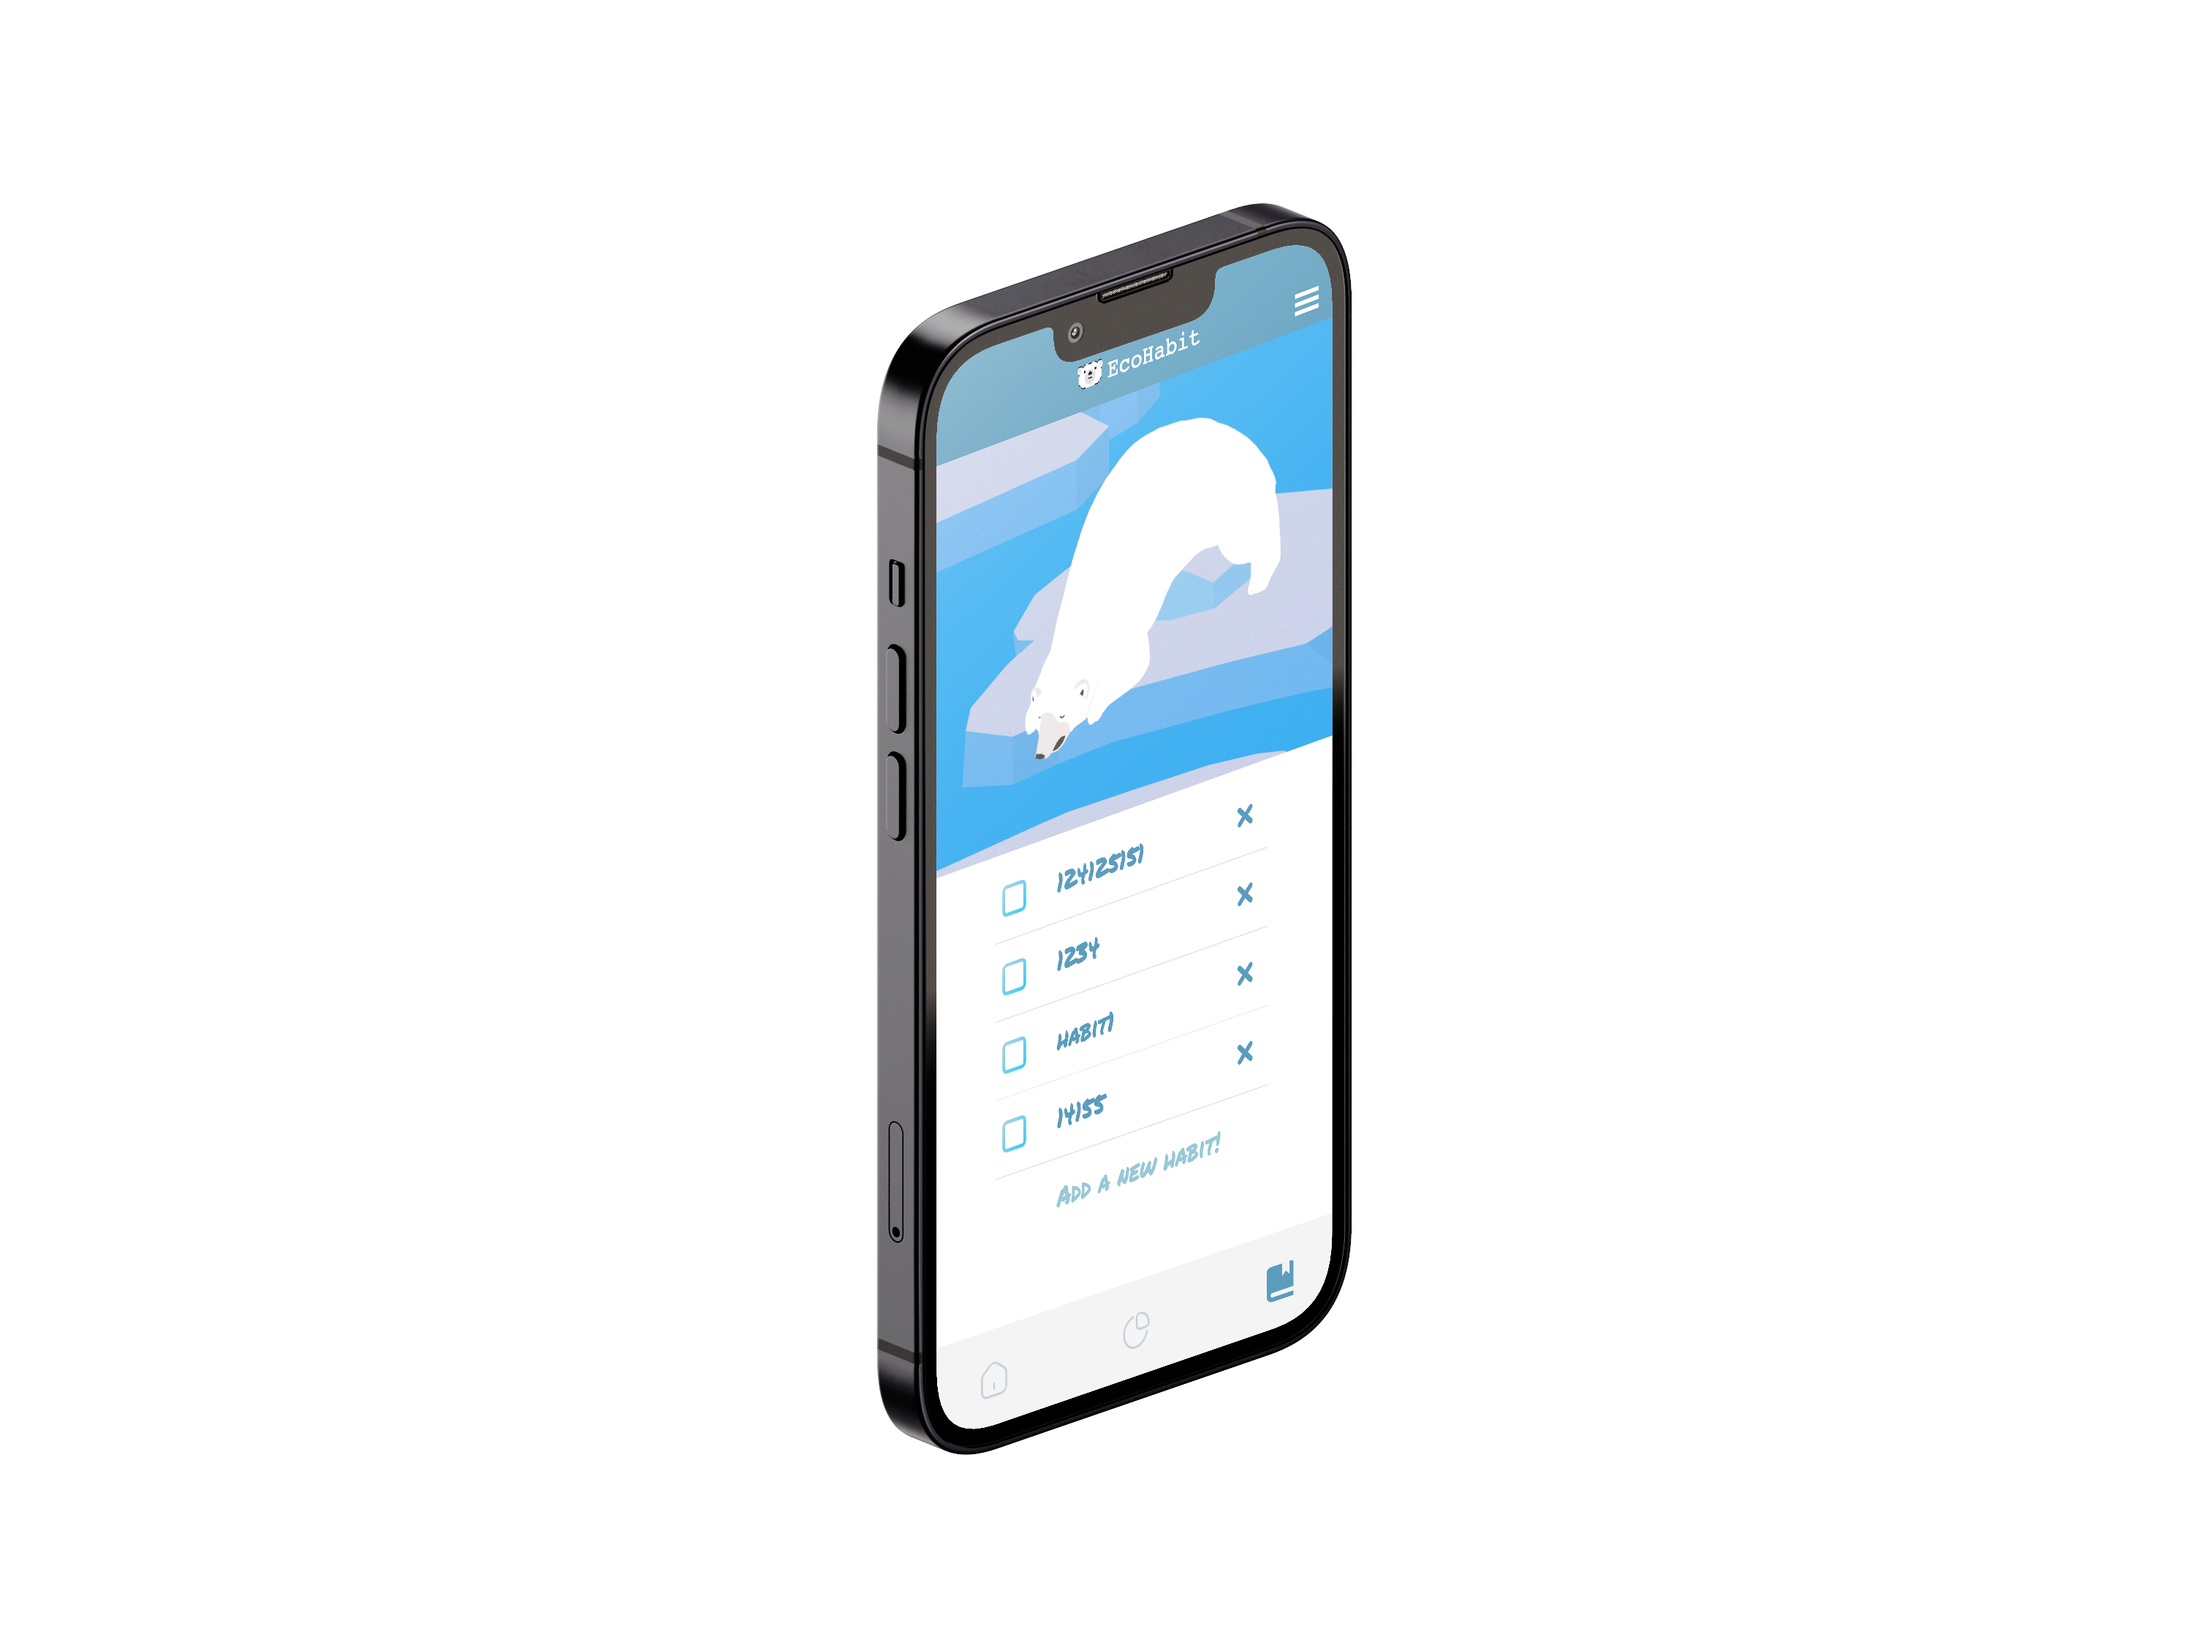
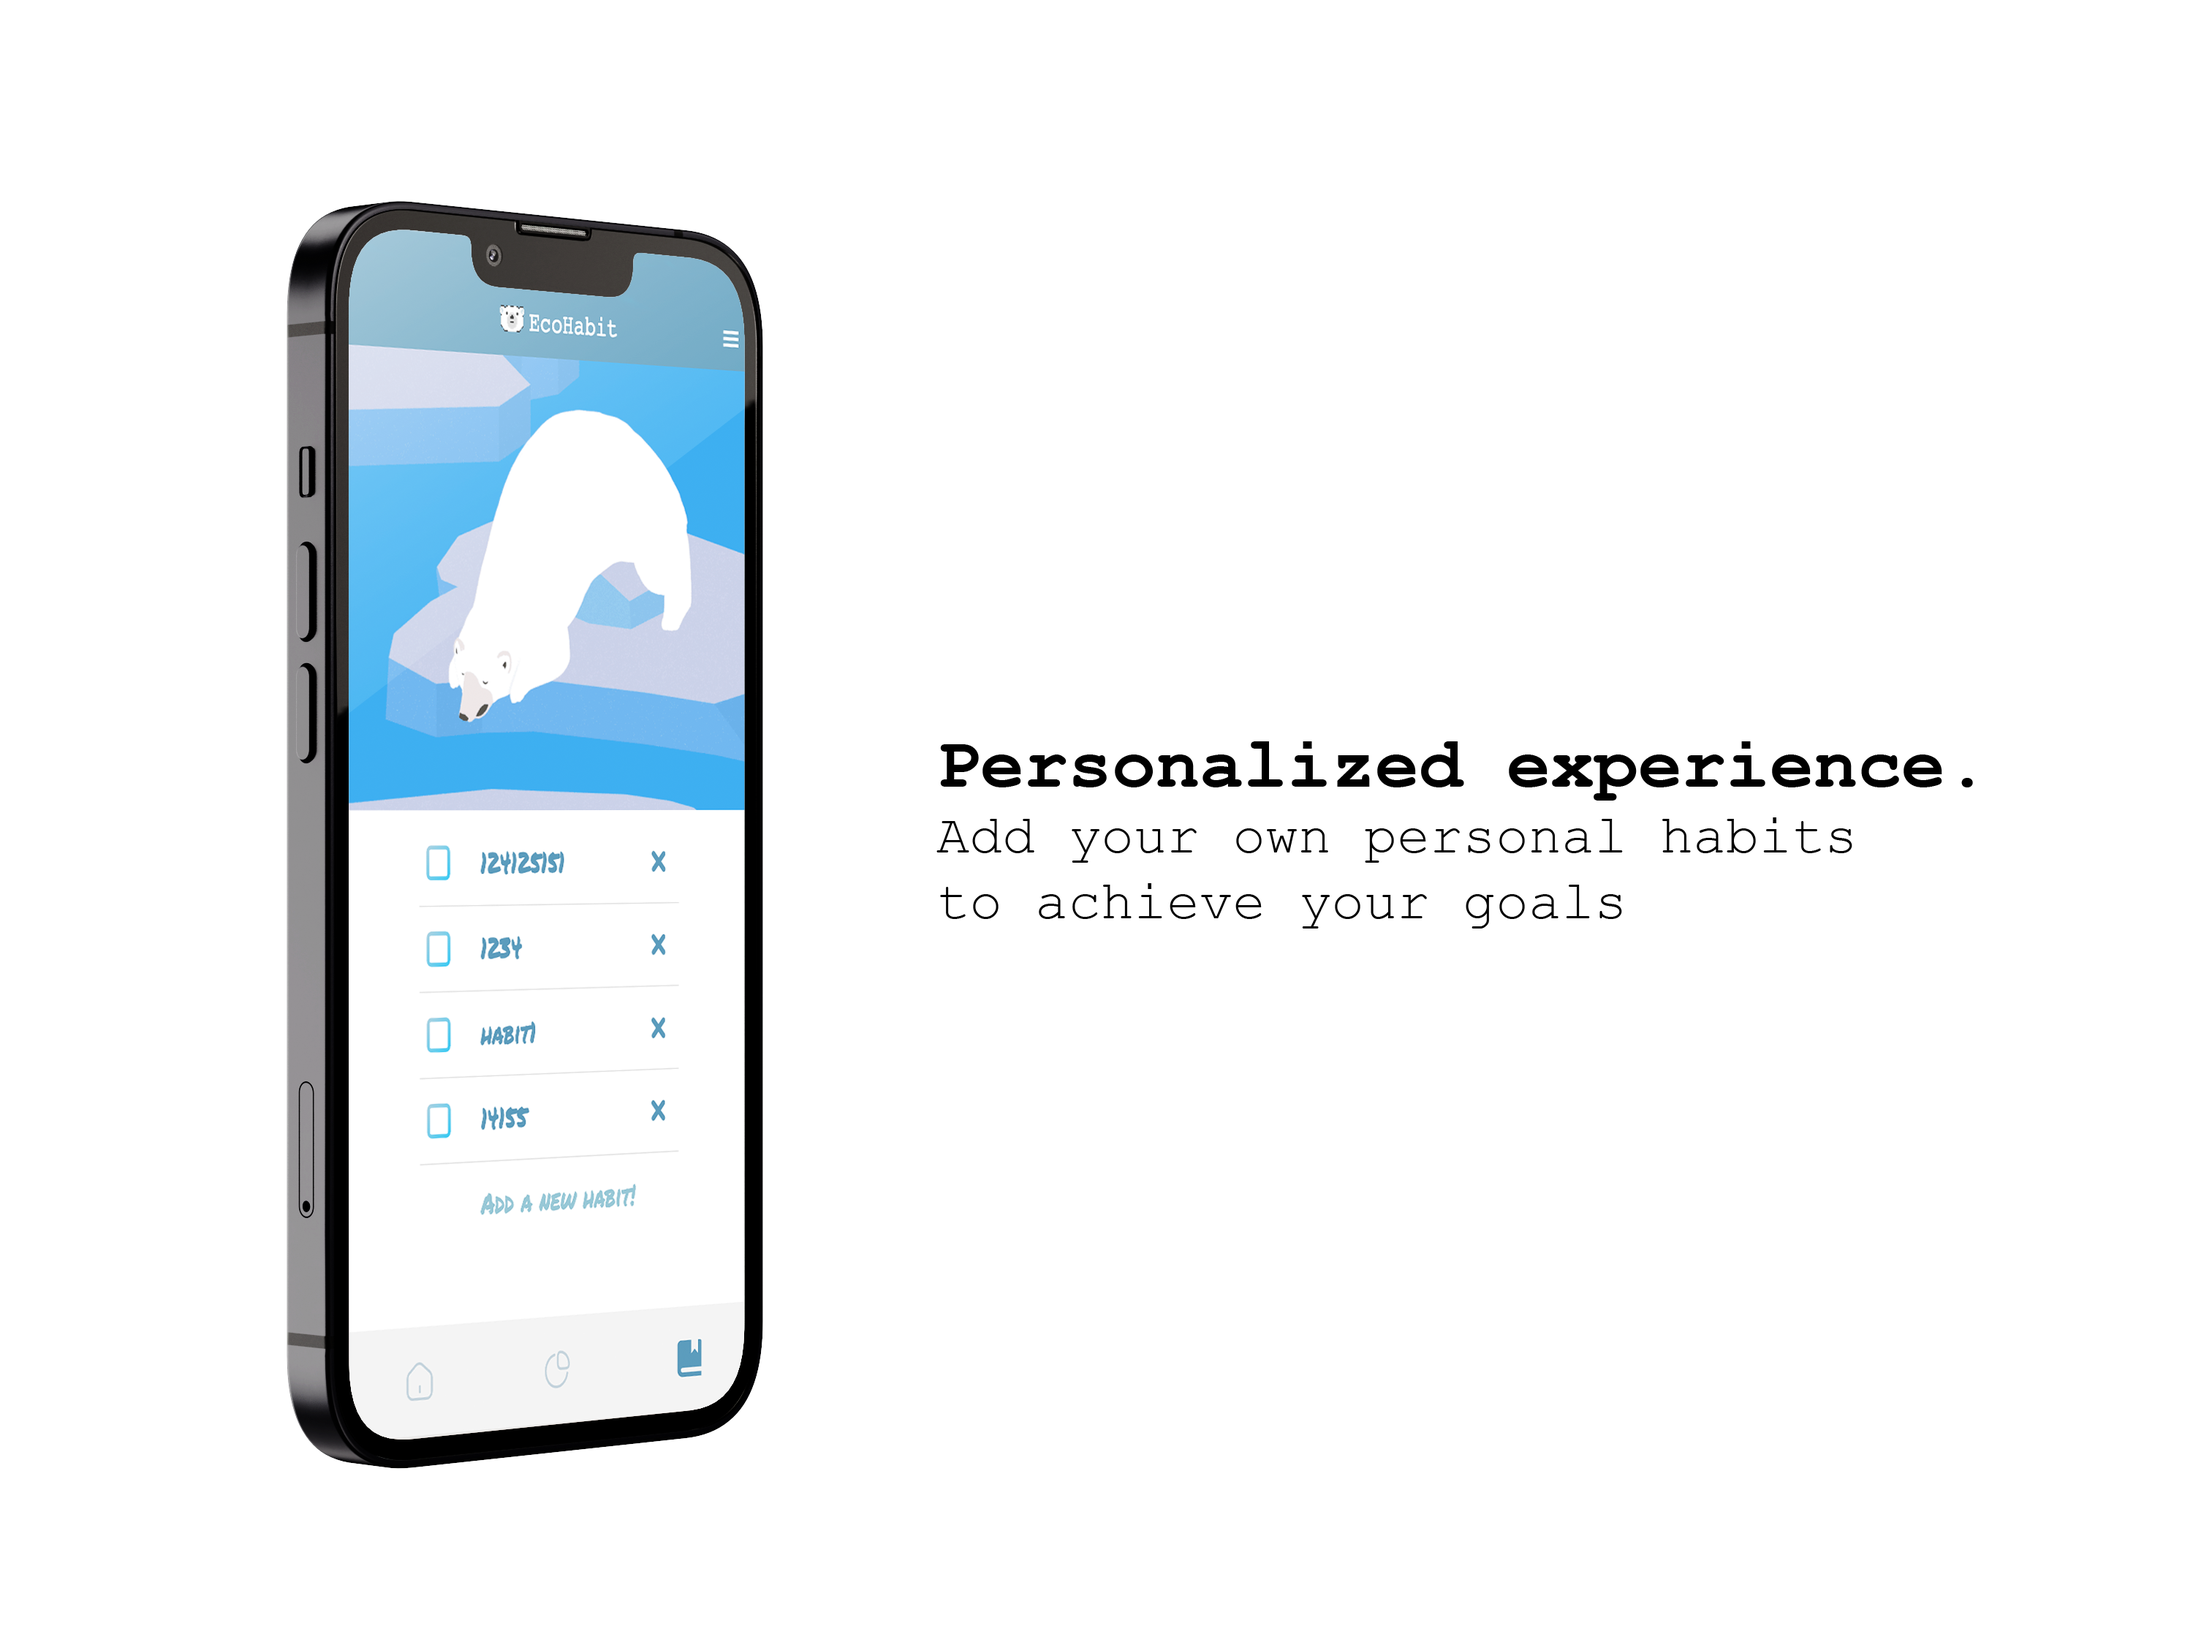
Fixed carousel images, added captions, added media quety for widths less than 800px

diff --git a/styles/style.css b/styles/style.css
@@ -222,10 +222,6 @@ input[type=checkbox]:checked~.sidebarIconToggle>.diagonal.part-2 {
 /*------------------------------*/
 /*------------Index-------------*/
 /*------------------------------*/
-#index-spacer-block {
-  display: block;
-  height: 24vh;
-}
 
 #index-landing-page {
   display: grid;
@@ -241,46 +237,82 @@ input[type=checkbox]:checked~.sidebarIconToggle>.diagonal.part-2 {
   padding-right: 0%;
 }
 
-  #index-heading1 {
-    font-weight: bold;
-    font-size: 50pt;
-    color: #393D47;
-    line-height: 42pt;
-    letter-spacing: -2pt;
-  }
+#index-heading1 {
+  font-weight: bold;
+  font-size: 50pt;
+  color: #393D47;
+  line-height: 42pt;
+  letter-spacing: -2pt;
+}
 
-  #index-heading2 {
-    padding-top: 20px;
-    padding-bottom: 35px;
-    font-size: 26pt;
-    color: rgb(104, 104, 104);
-  }
+#index-heading2 {
+  padding-top: 20px;
+  padding-bottom: 35px;
+  font-size: 26pt;
+  color: rgb(104, 104, 104);
+}
 
-  #get-started-button {
-    background: linear-gradient(#b8f6ff 7%, #00ddff 93%);
-  }
+#get-started-button {
+  background: linear-gradient(#b8f6ff 7%, #00ddff 93%);
+}
 
-  #get-started-button:hover {
-    box-shadow: 0 0 10px 2px #78b2ff;
-  }
+#get-started-button:hover {
+  box-shadow: 0 0 10px 2px #78b2ff;
+}
 
 #index-graphics {
   grid-column: 2;
   grid-row: 1;
   padding-left: 1%;
-  padding-right: 20%;
+  margin-right: 20%;
+  -webkit-mask-image: url(/images/gradient-edges.svg);
+  mask-image: url(/images/gradient-edges.svg);
+  -webkit-mask-size: cover;
+  mask-size: cover;
 }
 
-#gradient-edges {
-  position:absolute;
-  left: 0px;
-  top: 0px;
-  height: 100%;
-  width: 100%;
-  z-index: 1;
+@media (width < 800px) {
+  #index-landing-page {
+    display: grid;
+    grid-template-columns: 100%;
+    grid-template-rows: auto auto;
+    justify-content: center;
+    justify-items: center;
+    margin-top: 100px;
+    padding-left: 10%;
+    padding-right: 10%;
+  }
+
+  #index-graphics {
+    grid-column: 1;
+    grid-row: 1;
+    -webkit-mask-image: url(/images/gradient-edges.svg);
+    mask-image: url(/images/gradient-edges.svg);
+    -webkit-mask-size: cover;
+    mask-size: cover;
+    padding: 0;
+    margin: 0;
+    justify-content: center;
+  }
+
+  #index-landing-page-text {
+    grid-column: 1;
+    grid-row: 2;
+    padding: 0;
+    margin-top: none;
+  }
+
+  #index-heading1 {
+    font-size: 36pt;
+  }
+
+  #index-heading2 {
+    padding-top: 15px;
+    padding-bottom: 35px;
+    font-size: 20pt;
+  }
+
 }
-
-
 
 /*------------------------------*/
 /*-------------Main-------------*/

diff --git a/index.html b/index.html
@@ -54,7 +54,6 @@
   <!-- <nav id="navbarPlaceholder"></nav> -->
 
   <!-- the body of your page goes here -->
-  <!-- <div id="index-spacer-block"></div> -->
   <div id="index-landing-page">
     <div id="index-landing-page-text">
       <h1 id="index-heading1">Green habits for a blue planet.</h1>
@@ -64,7 +63,7 @@
 
     <div id="index-graphics">
       <div id="carouselExampleCaptions" class="carousel slide" data-bs-ride="carousel">
-        <img id="gradient-edges" src="images/gradient-edges.png" alt="gradient">
+        <!-- <img id="gradient-edges" src="images/gradient-edges.png" alt="gradient"> -->
         <div class="carousel-indicators">
           <button type="button" data-bs-target="#carouselExampleCaptions" data-bs-slide-to="0" class="active"
             aria-current="true" aria-label="Slide 1"></button>
